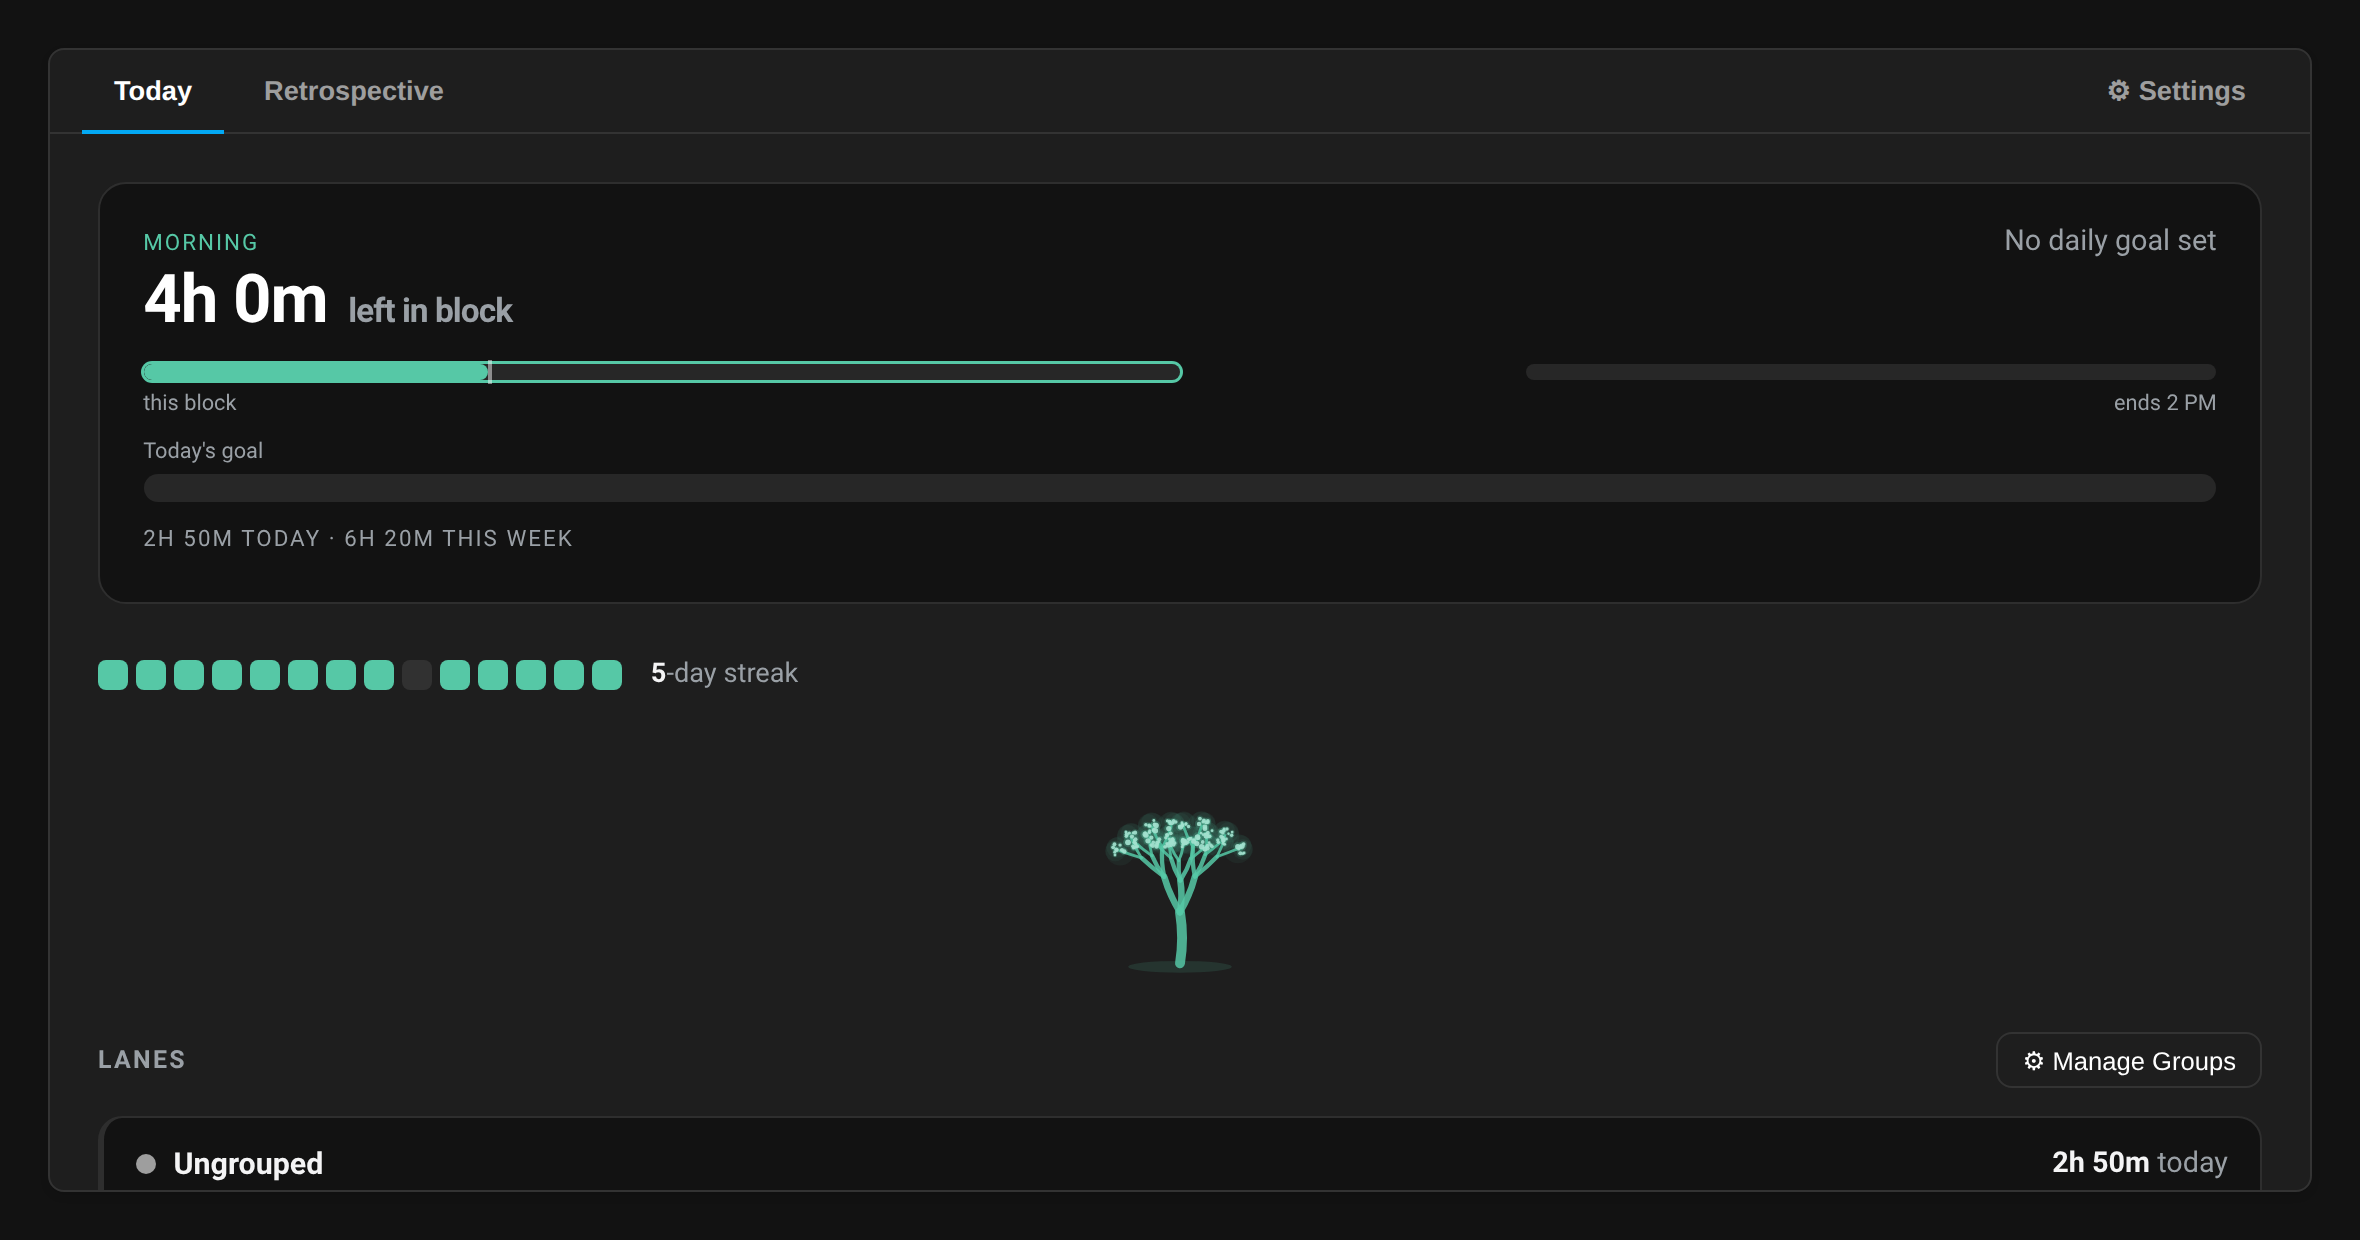
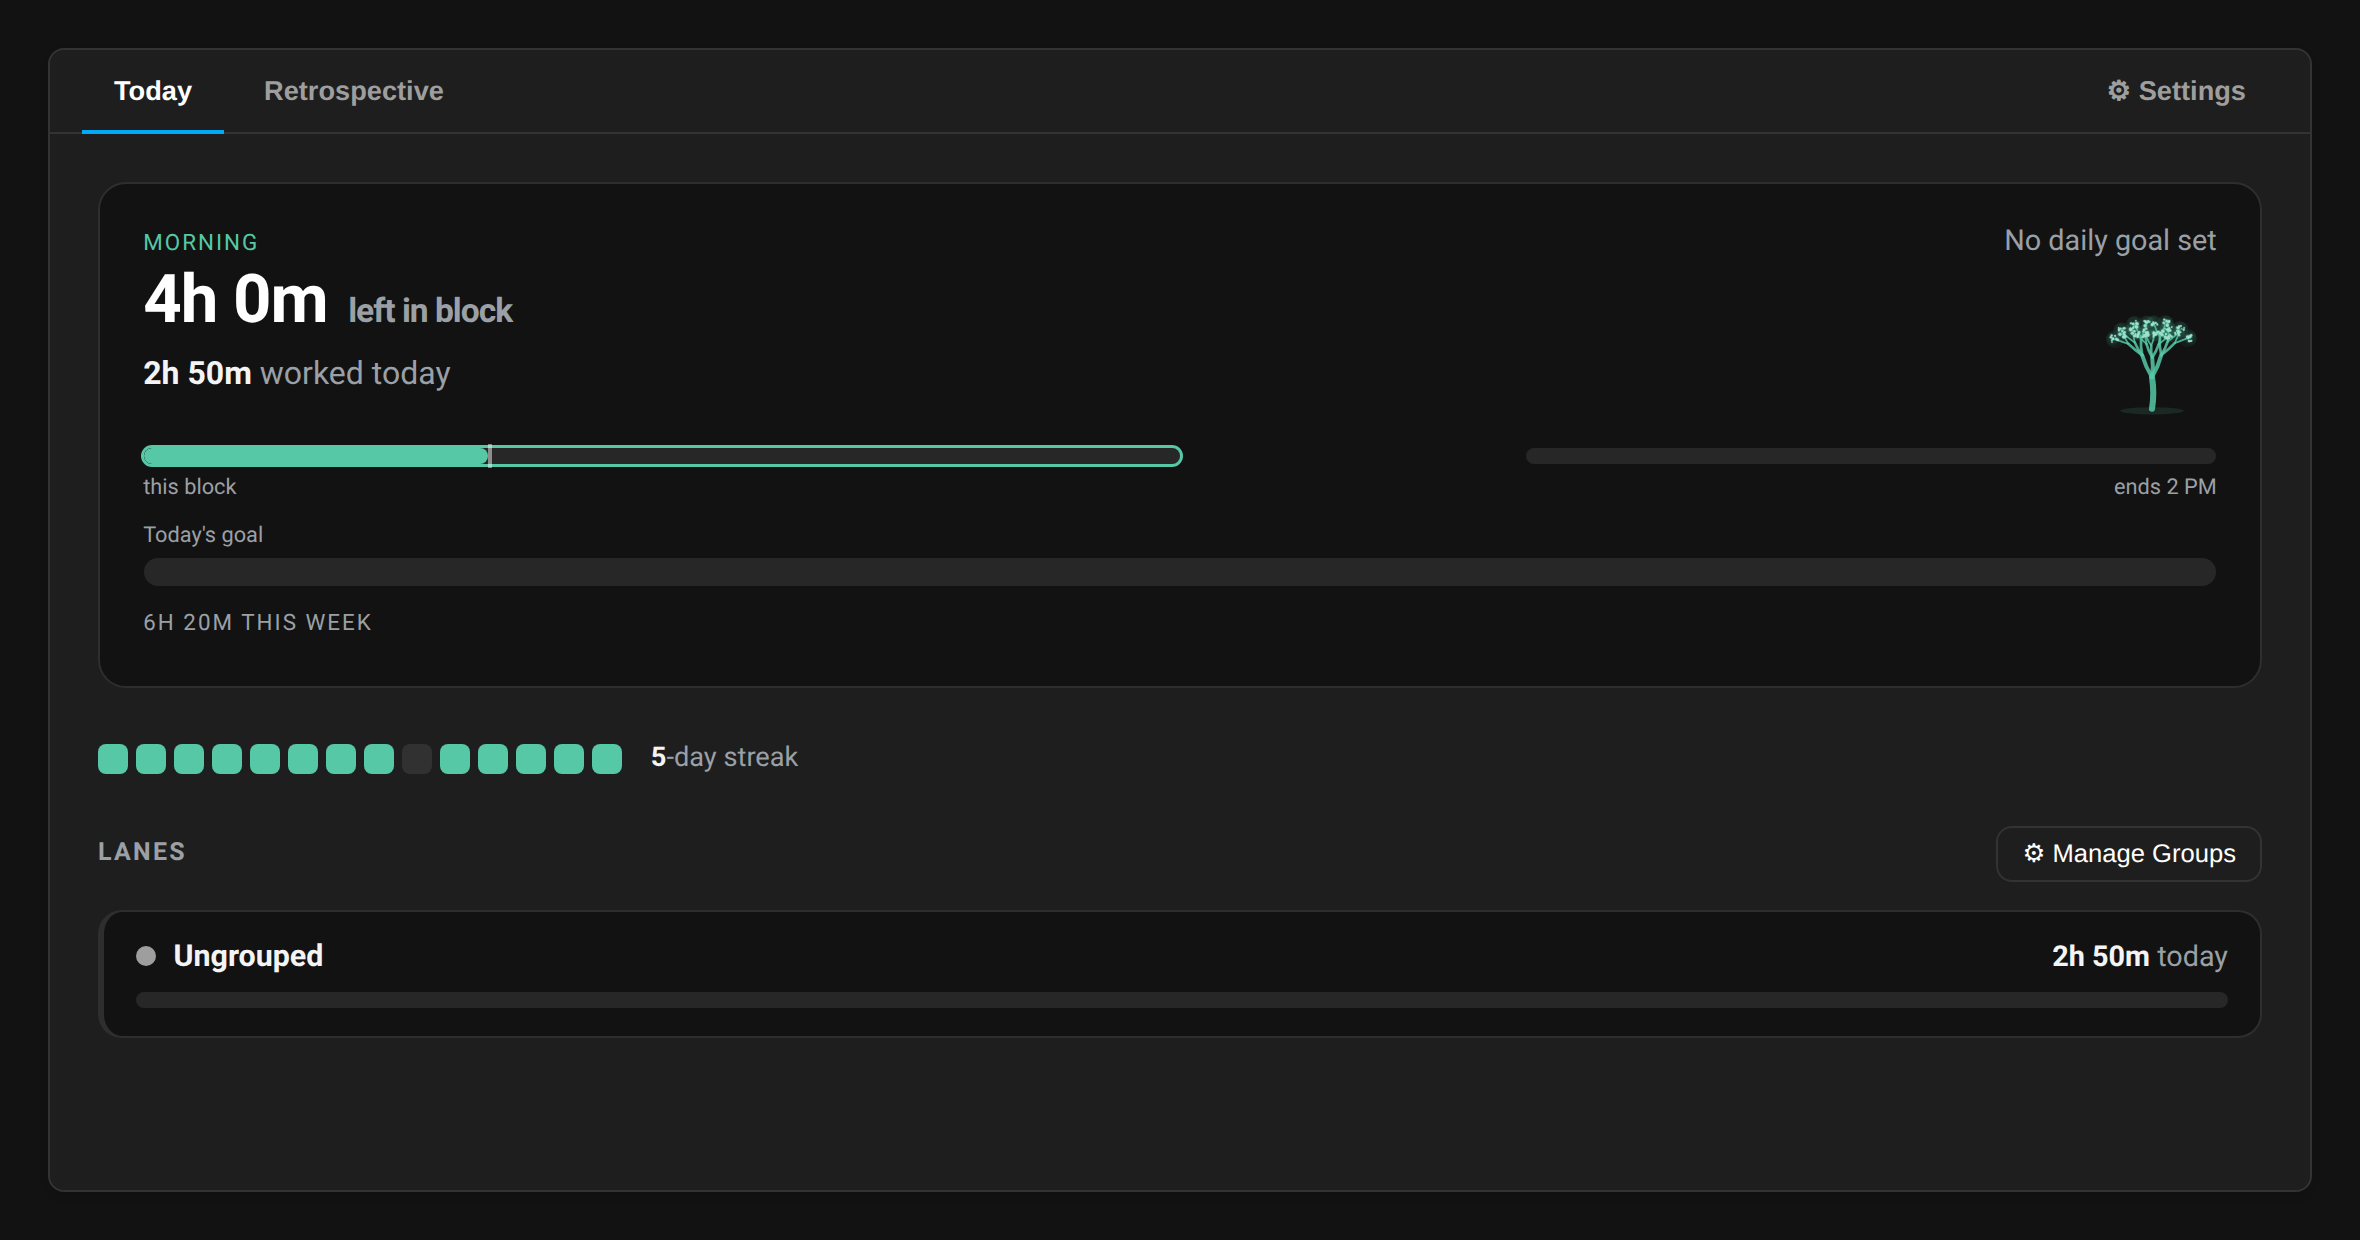
feat: tuck the streak tree into the Launchpad's corner
The tree sat centred in its own band between the momentum strip and the
lanes, reading as a second focal point. Shrink it to an ambient 64px `xs`
size (caption dropped — the momentum strip already states the streak) and
tuck it under the "still needed" indicator in the runway's top-right.

Fill the gap that opens under the block countdown with the day's total,
in a quieter register: the countdown is the moment, "Nh Nm worked today"
is the record. Drop "today" from the footer line so it isn't stated twice.

Launchpad only: On a Break keeps its centred small tree and Day Complete
keeps the big one as the day's-end payoff.

diff --git a/sp-dashboard/index.html b/sp-dashboard/index.html
@@ -387,10 +387,15 @@
 
     /* --- Day runway (idle hero) --- */
     .runway { background: var(--td-surface); border: 1px solid var(--td-line); border-radius: var(--td-radius); padding: 1.25rem 1.35rem; }
-    .runway-top { display: flex; align-items: baseline; justify-content: space-between; gap: 1rem; margin-bottom: 0.9rem; }
+    .runway-top { display: flex; align-items: baseline; justify-content: space-between; gap: 1rem; flex-wrap: wrap; margin-bottom: 0.9rem; }
+    .runway-aside { display: flex; flex-direction: column; align-items: flex-end; gap: 0.4rem; }
     .runway-eyebrow { font-size: 0.7rem; text-transform: uppercase; letter-spacing: 0.09em; color: var(--td-muted); margin-bottom: 0.3rem; }
     .runway-big { font-size: 2.1rem; font-weight: 700; letter-spacing: -0.015em; line-height: 1.05; }
     .runway-big .u { font-size: 1.05rem; font-weight: 600; color: var(--td-muted); margin-left: 0.15rem; }
+    /* The day's ledger under the block countdown: same fact, quieter register —
+       the countdown is the moment, this is the record. */
+    .runway-worked { font-size: 1rem; font-weight: 400; color: var(--td-muted); margin-top: 0.55rem; }
+    .runway-worked b { color: var(--td-ink); font-weight: 600; font-variant-numeric: tabular-nums; }
     .runway-need { font-size: 0.9rem; color: var(--td-muted); text-align: right; }
     .runway-need b { color: var(--td-ink); font-weight: 600; }
     .runway-need.squeeze, .runway-need.squeeze b { color: var(--td-warn); }
@@ -452,6 +457,7 @@
     .streak-tree .st-svg { display: block; height: auto; overflow: visible; }
     .streak-tree--sm { margin-top: 1.5rem; }
     .streak-tree--sm .st-svg { width: 104px; }
+    .streak-tree--xs .st-svg { width: 64px; }
     .streak-tree--lg { margin: 0.4rem auto 0.3rem; }
     .streak-tree--lg .st-svg { width: min(248px, 66%); }
     .st-ground { fill: var(--td-go); opacity: 0.13; }
@@ -537,9 +543,6 @@
 
           <!-- Momentum: recent days at a glance, right under the day. -->
           <div id="momentum" class="momentum"></div>
-
-          <!-- The streak tree, small — grows up into the big one at day's end. -->
-          <div id="td-tree-sm"></div>
 
           <div class="lanes-head">
             <h3 class="lanes-title">Lanes</h3>
@@ -1208,7 +1211,6 @@
       renderRunway(metrics);
       renderLanes(metrics, stats);
       renderMomentum(metrics);
-      renderTreeSmall();
     };
 
     // Pure: the block that most recently ended before now (largest end <= nowH),
@@ -1489,14 +1491,18 @@
           <div>
             <div class="runway-eyebrow">${eyebrow}</div>
             <div class="runway-big">${big}</div>
+            <div class="runway-worked"><b>${formatTime(todayMs)}</b> worked today</div>
           </div>
-          <div class="runway-need ${needClass}">${needHtml}</div>
+          <div class="runway-aside">
+            <div class="runway-need ${needClass}">${needHtml}</div>
+            ${treeHtml('xs')}
+          </div>
         </div>
         ${timelineInner ? `<div class="runway-day">${timelineInner}</div>` : ''}
         ${caption ? `<div class="runway-day-caption"><span>${captionLead}</span><span>${caption}</span></div>` : ''}
         <div class="runway-bar-label">${barLabel}</div>
         <div class="runway-bar"><div class="runway-need-fill calm" style="width:${bar.pct}%"></div>${bar.floorPct > 0 ? `<div class="runway-bar-secured" style="width:${bar.floorPct}%"></div>` : ''}</div>
-        <div class="runway-eyebrow" style="margin-top:0.75rem">${formatTime(todayMs)} today &middot; ${formatTime(weekMs)} this week</div>`;
+        <div class="runway-eyebrow" style="margin-top:0.75rem">${formatTime(weekMs)} this week</div>`;
     };
 
     // Lane ordering (most behind first, ungrouped last) + a single lane row's
@@ -1703,11 +1709,6 @@
           : `<div class="streak-tree-cap">a steady grove grows here</div>`;
       }
       return `<div class="streak-tree streak-tree--${size}" role="img" aria-label="${label}">${streakTreeSvg(st)}${cap}</div>`;
-    };
-
-    const renderTreeSmall = () => {
-      const el = document.getElementById('td-tree-sm');
-      if (el) el.innerHTML = treeHtml('sm');
     };
 
     // --- FOCUS: Engine ---

diff --git a/tests/index.test.js b/tests/index.test.js
@@ -83,7 +83,7 @@ describe('Date Range Reporter UI', () => {
 
       // Totals are surfaced on the idle runway ("Xh Ym today · Zh Wm this week").
       const runway = document.getElementById('runway').textContent;
-      expect(runway).toContain('3h 0m today');
+      expect(runway).toContain('3h 0m worked today');
       expect(runway).toContain('3h 0m this week');
     });
 
@@ -100,7 +100,7 @@ describe('Date Range Reporter UI', () => {
       const d = new Date(); d.setHours(17, 0, 0, 0); vi.setSystemTime(d);
       window.processData([task], []);
       // no time entries, no due date -> zero time
-      expect(document.getElementById('runway').textContent).toContain('0h 0m today');
+      expect(document.getElementById('runway').textContent).toContain('0h 0m worked today');
     });
 
     it('should count tasks due today in totalTasks denominator even with no time logged', () => {
@@ -119,7 +119,7 @@ describe('Date Range Reporter UI', () => {
       window.processData([taskDueToday], []);
       // Task due today with no time: zero period and today time
       const runway = document.getElementById('runway').textContent;
-      expect(runway).toContain('0h 0m today');
+      expect(runway).toContain('0h 0m worked today');
       expect(runway).toContain('0h 0m this week');
     });
 
